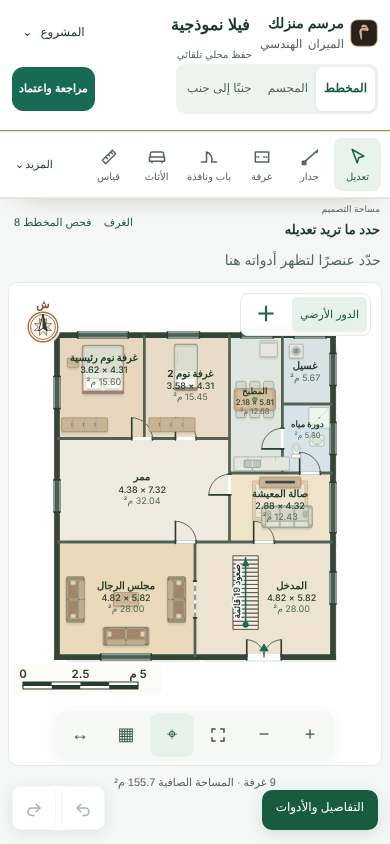
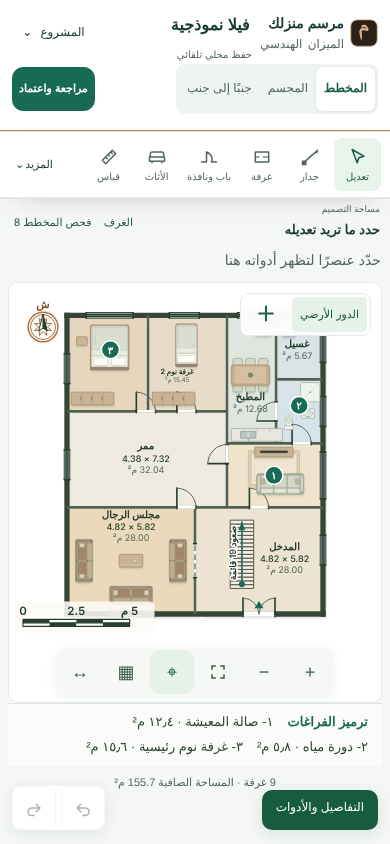
Fix plan label overlap and add numbered room key
- layoutLabels tries clean placements first (full then shortened label)
  before allowing overlap with soft furniture; the optional dimensions
  line is dropped before any overlap is accepted.
- Furniture obstacle boxes use the real rotated bounds instead of a
  max-side square, freeing space next to furniture.
- Rooms whose label still cannot avoid furniture show a numbered badge
  in the plan, with a "ترميز الفراغات" key listed below the design.
- Stage grid gets a dedicated row for the key; mobile fit margin keeps
  the plan clear of the floating level chip.

Claude-Session: https://claude.ai/code/session_01NcKftBBritNab1SzVXiSbw

Changed region(s): [[0.0308, 0.3697, 0.8615, 0.8934], [0.7385, 0.8318, 0.9538, 0.8934], [0.2154, 0.8626, 0.2462, 0.8934]]

diff --git a/dist/studio-experience.css b/dist/studio-experience.css
@@ -288,7 +288,7 @@ body.studio-experience {
   background: #f4f7f5;
   min-height: 0;
   display: grid;
-  grid-template-rows: 62px auto minmax(0, 1fr) 28px;
+  grid-template-rows: 62px auto minmax(0, 1fr) auto 28px;
   overflow: hidden;
   padding: 0 14px 10px 18px;
   gap: 0;
@@ -619,6 +619,24 @@ body.studio-experience {
   text-align: start;
   overflow-wrap: anywhere;
 }
+.studio-experience .room-key {
+  display: flex;
+  flex-wrap: wrap;
+  align-items: baseline;
+  gap: 4px 14px;
+  padding: 8px 14px;
+  border-top: 1px solid #dfe7e1;
+  background: #fbfcfa;
+  color: #2c4635;
+  font-size: 13px;
+  line-height: 1.6;
+}
+.studio-experience .room-key { grid-row: 4; }
+.studio-experience .stage > .status { grid-row: 5; }
+.studio-experience .room-key[hidden] { display: none; }
+.studio-experience .room-key b { color: #176b55; font-weight: 700; }
+.studio-experience .room-key ol { display: contents; margin: 0; padding: 0; list-style: none; }
+.studio-experience .room-key li { margin: 0; white-space: nowrap; }
 .studio-experience .side .acts {
   display: flex;
   flex-wrap: wrap;
@@ -1049,7 +1067,7 @@ body.studio-experience {
   }
   .studio-experience .stage {
     padding: 0 8px 54px;
-    grid-template-rows: 48px auto minmax(0, 1fr) 24px;
+    grid-template-rows: 48px auto minmax(0, 1fr) auto 24px;
   }
   .studio-stage-head {
     padding: 7px 2px;

diff --git a/dist/studio.html b/dist/studio.html
@@ -67,6 +67,7 @@
         <div class="three-msg" id="threeMsg" hidden></div>
       </div>
     </div>
+    <div class="room-key" id="roomKeyBox" hidden><b>ترميز الفراغات</b><ol id="roomKey"></ol></div>
     <footer class="status" id="status"><span id="stCoord">—</span><span id="stSnap"></span><span class="grow" id="stHint">اختر أداة من الشريط لبدء الرسم.</span><span id="stStats"></span><button class="btn sm warn" id="fixGaps" hidden>إغلاق الفجوات</button></footer>
   </section>
 
